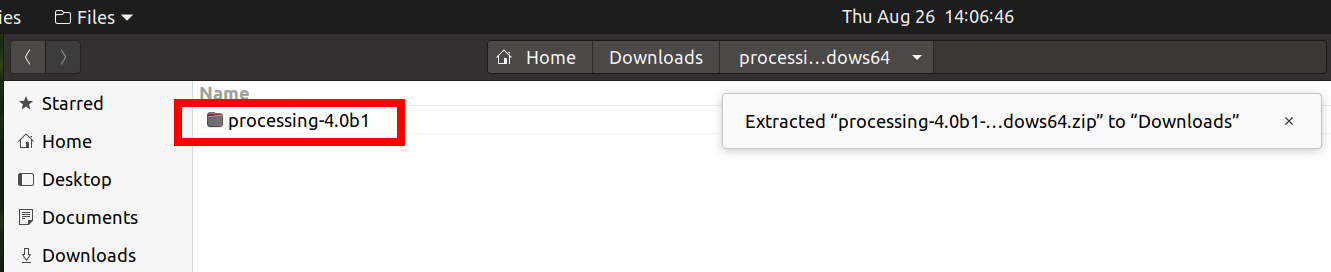
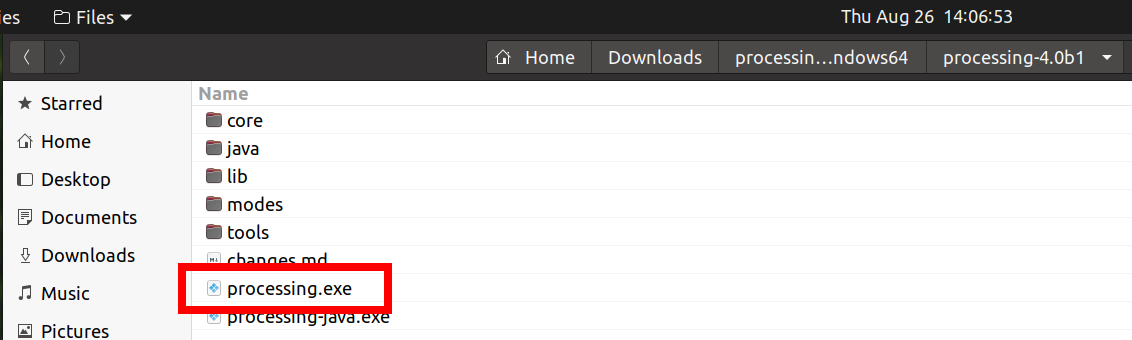
Fix pics, thanks @Bryntse

diff --git a/kapitel/installera_processing/README.md b/kapitel/installera_processing/README.md
@@ -10,11 +10,12 @@ Här är de stegs för att installera Processing:
   4. Ladda ner filen på din dator
   5. Spara filen i din favoritfolder, till exempel 'Mina dokument'
   6. Vänta till filen är nedladdat
-  7. Packa upp filen
-  8. Dubbelklicka mapp
-  9. Dubbelklicka andra mapp
-  10. Klicka på Processing
-  11. Bonus: gör an fillänk och flytt länken på skrivbord
+  7. Går till mappen var Processing är nedladdat
+  8. Packa upp filen
+  9. Dubbelklicka mapp
+  10. Dubbelklicka andra mapp
+  11. Klicka på Processing
+  12. Bonus: gör an fillänk och flytt länken på skrivbord
 
 Undra här finns det samma stegs med mer detaljer.
 
@@ -81,21 +82,21 @@ En mapp ska bill gjört som börjar med 'processing-'.
 
 Dubbelklicka mapp som börjar med 'processing-'.
 
-![](installera_processing_10.png)
+![](installera_processing_9.png)
 
 ## 10. Dubbelklicka andra mapp
 
 Här finns det en andra map som börjat också med 'processing-'.
 Dubbelklicka den också.
 
-![](installera_processing_11.png)
+![](installera_processing_10.png)
 
 ## 11. Klicka på Processing
 
 Nu ser du många filer som är alla notvändig för Processing.
 Klick pa 'Processing' för att startat Processing.
 
-![](installera_processing_12.png)
+![](installera_processing_11.png)
 
 ## 12. Windows bonus: gör an fillänk och flytt länken på skrivbord
 
